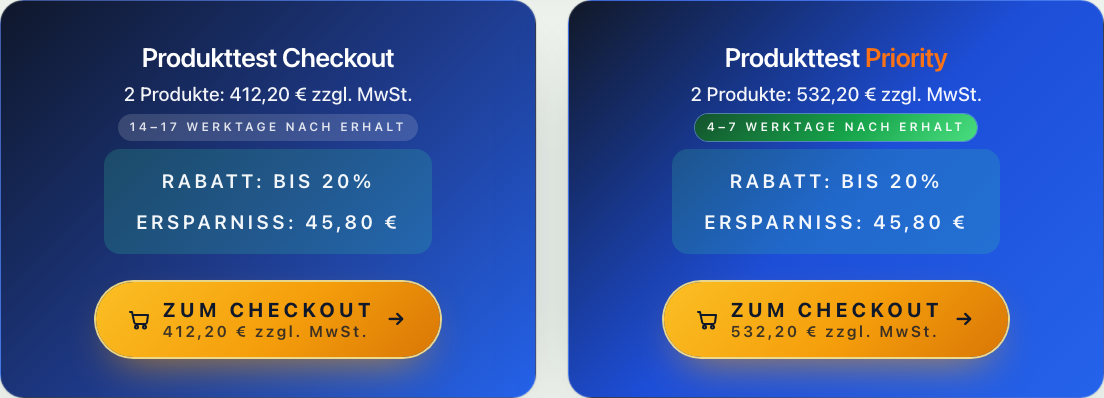
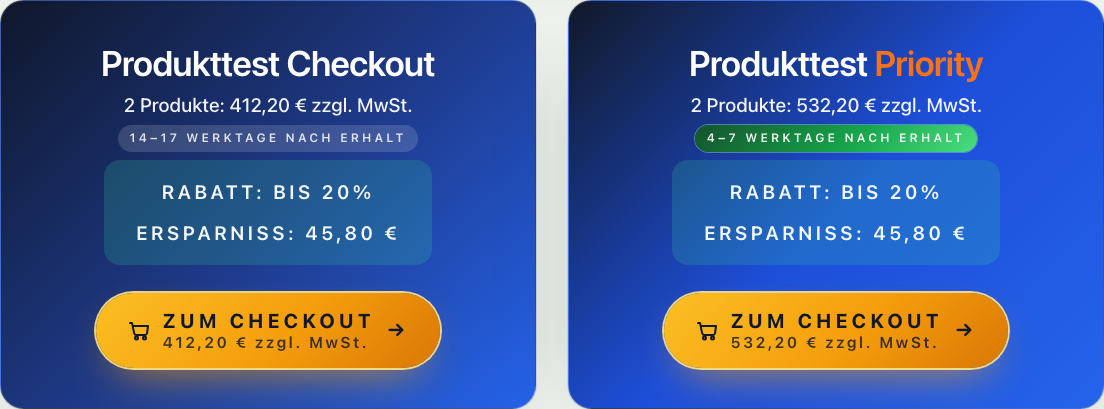
großer schrift

diff --git a/app/precheck/page.tsx b/app/precheck/page.tsx
@@ -1280,7 +1280,7 @@ export default function PrecheckPage() {
                     }}
                   >
                     <div className="flex flex-col items-center space-y-2">
-                      <div className="text-xl font-semibold leading-tight tracking-tight" style={{ fontSize: "1.67rem" }}>
+                      <div className="text-xl font-semibold leading-tight tracking-tight" style={{ fontSize: "2.22rem" }}>
                         {option.id === "priority" ? (
                           <>
                             {tr("Produkttest ", "Product test ")}
